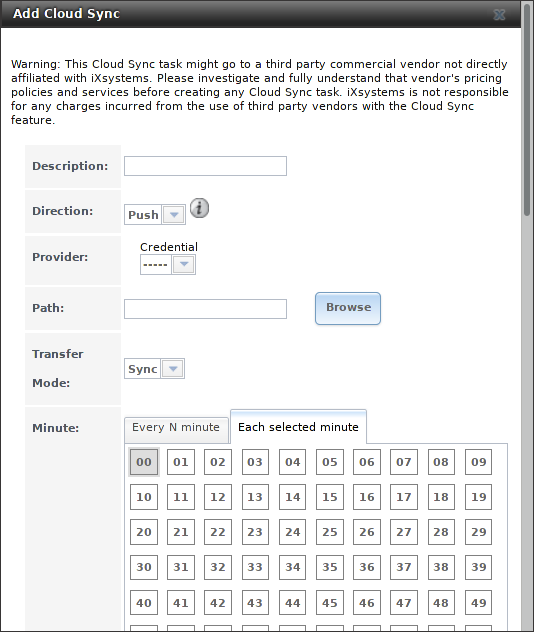
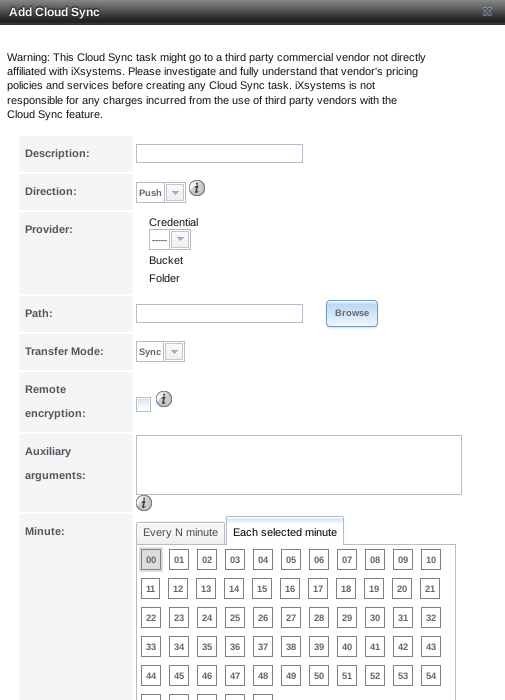
Add updated screenshot for cloud sync. Ticket: #26924

diff --git a/userguide/tasks.rst b/userguide/tasks.rst
@@ -83,9 +83,16 @@ Click :guilabel:`Add Cloud Sync` to display the menu shown in
 
 .. _tasks_cloudsync_add_fig:
 
+#ifdef freenas
 .. figure:: images/tasks-cloudsync.png
 
    Adding a Cloud Sync
+#endif freenas
+#ifdef truenas
+.. figure:: images/tn_tasks-cloudsync.png
+
+   Adding a Cloud Sync
+#endif truenas
 
 
 :numref:`Table %s <tasks_cloudsync_opts_tab>`
